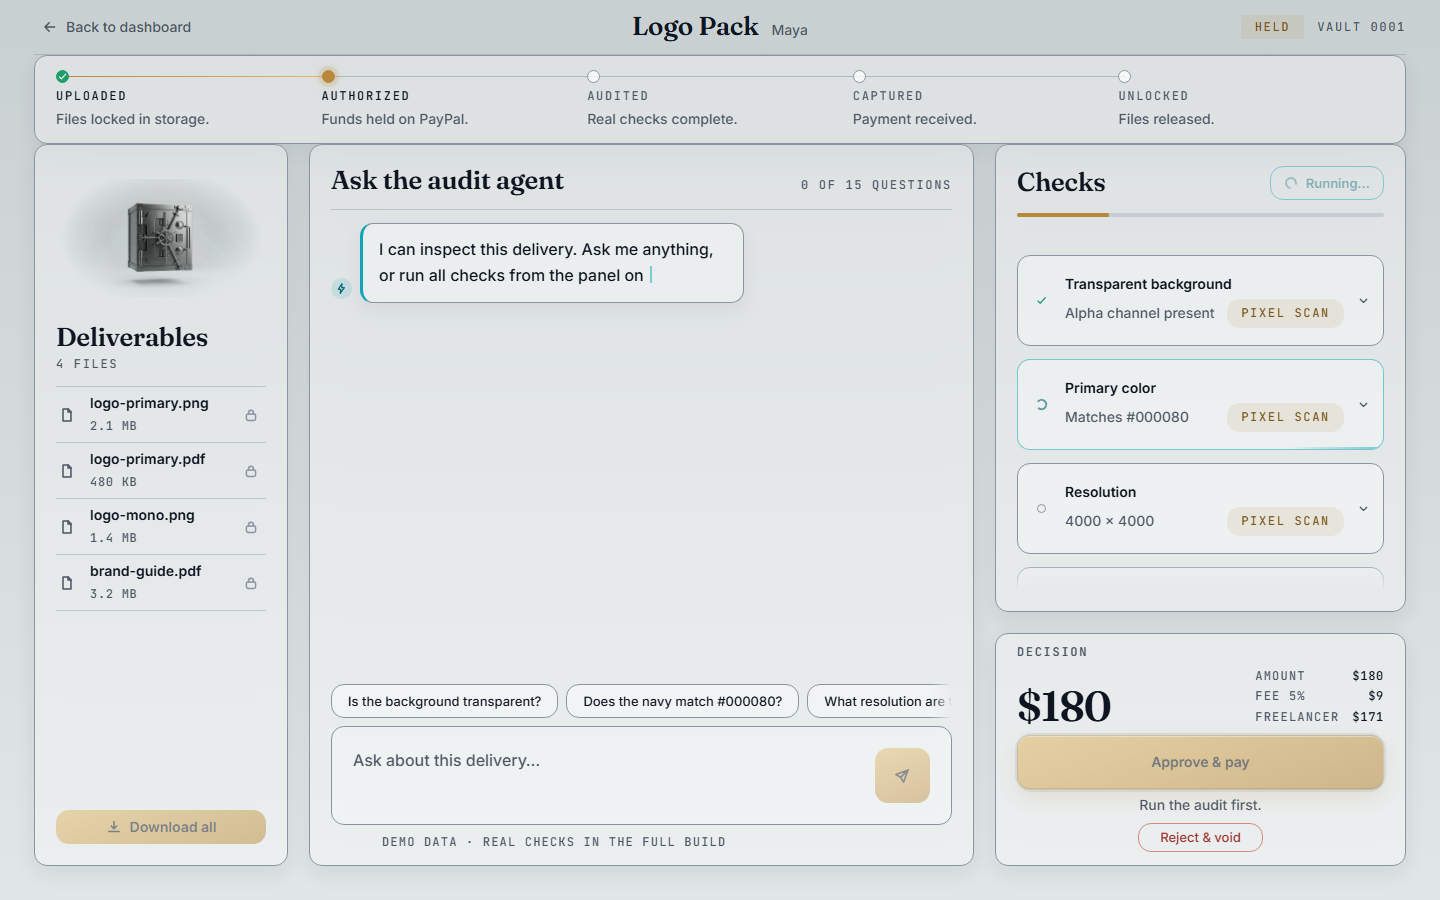
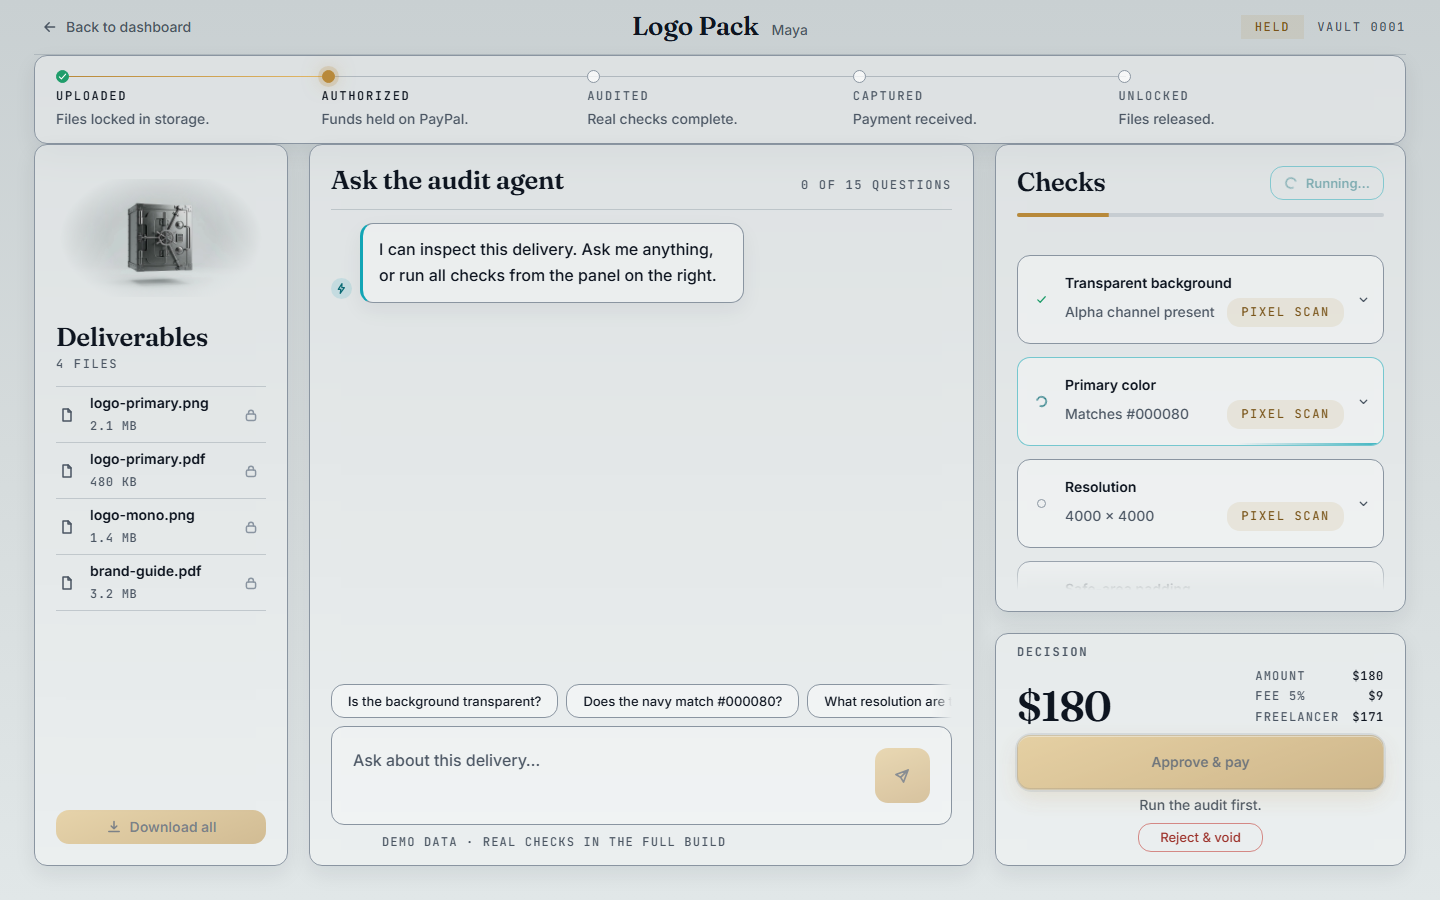
fix(vault): make the check card 89px with its border
The spec's 89px is the whole card, hairline included; the button carried
that height inside the border and came out at 91. Screenshots refreshed.

diff --git a/src/styles/vault.css b/src/styles/vault.css
@@ -1217,7 +1217,8 @@
   align-items: center;
   gap: 13px;
   width: 100%;
-  min-height: 89px;
+  /* the card is 89px including its 1px border */
+  min-height: 87px;
   padding: 13px;
   border: 0;
   background: none;
@@ -2014,7 +2015,7 @@
     gap: 8px;
   }
   .room-check-btn {
-    min-height: 69px;
+    min-height: 67px;
     padding: 8px 13px;
   }
 }
